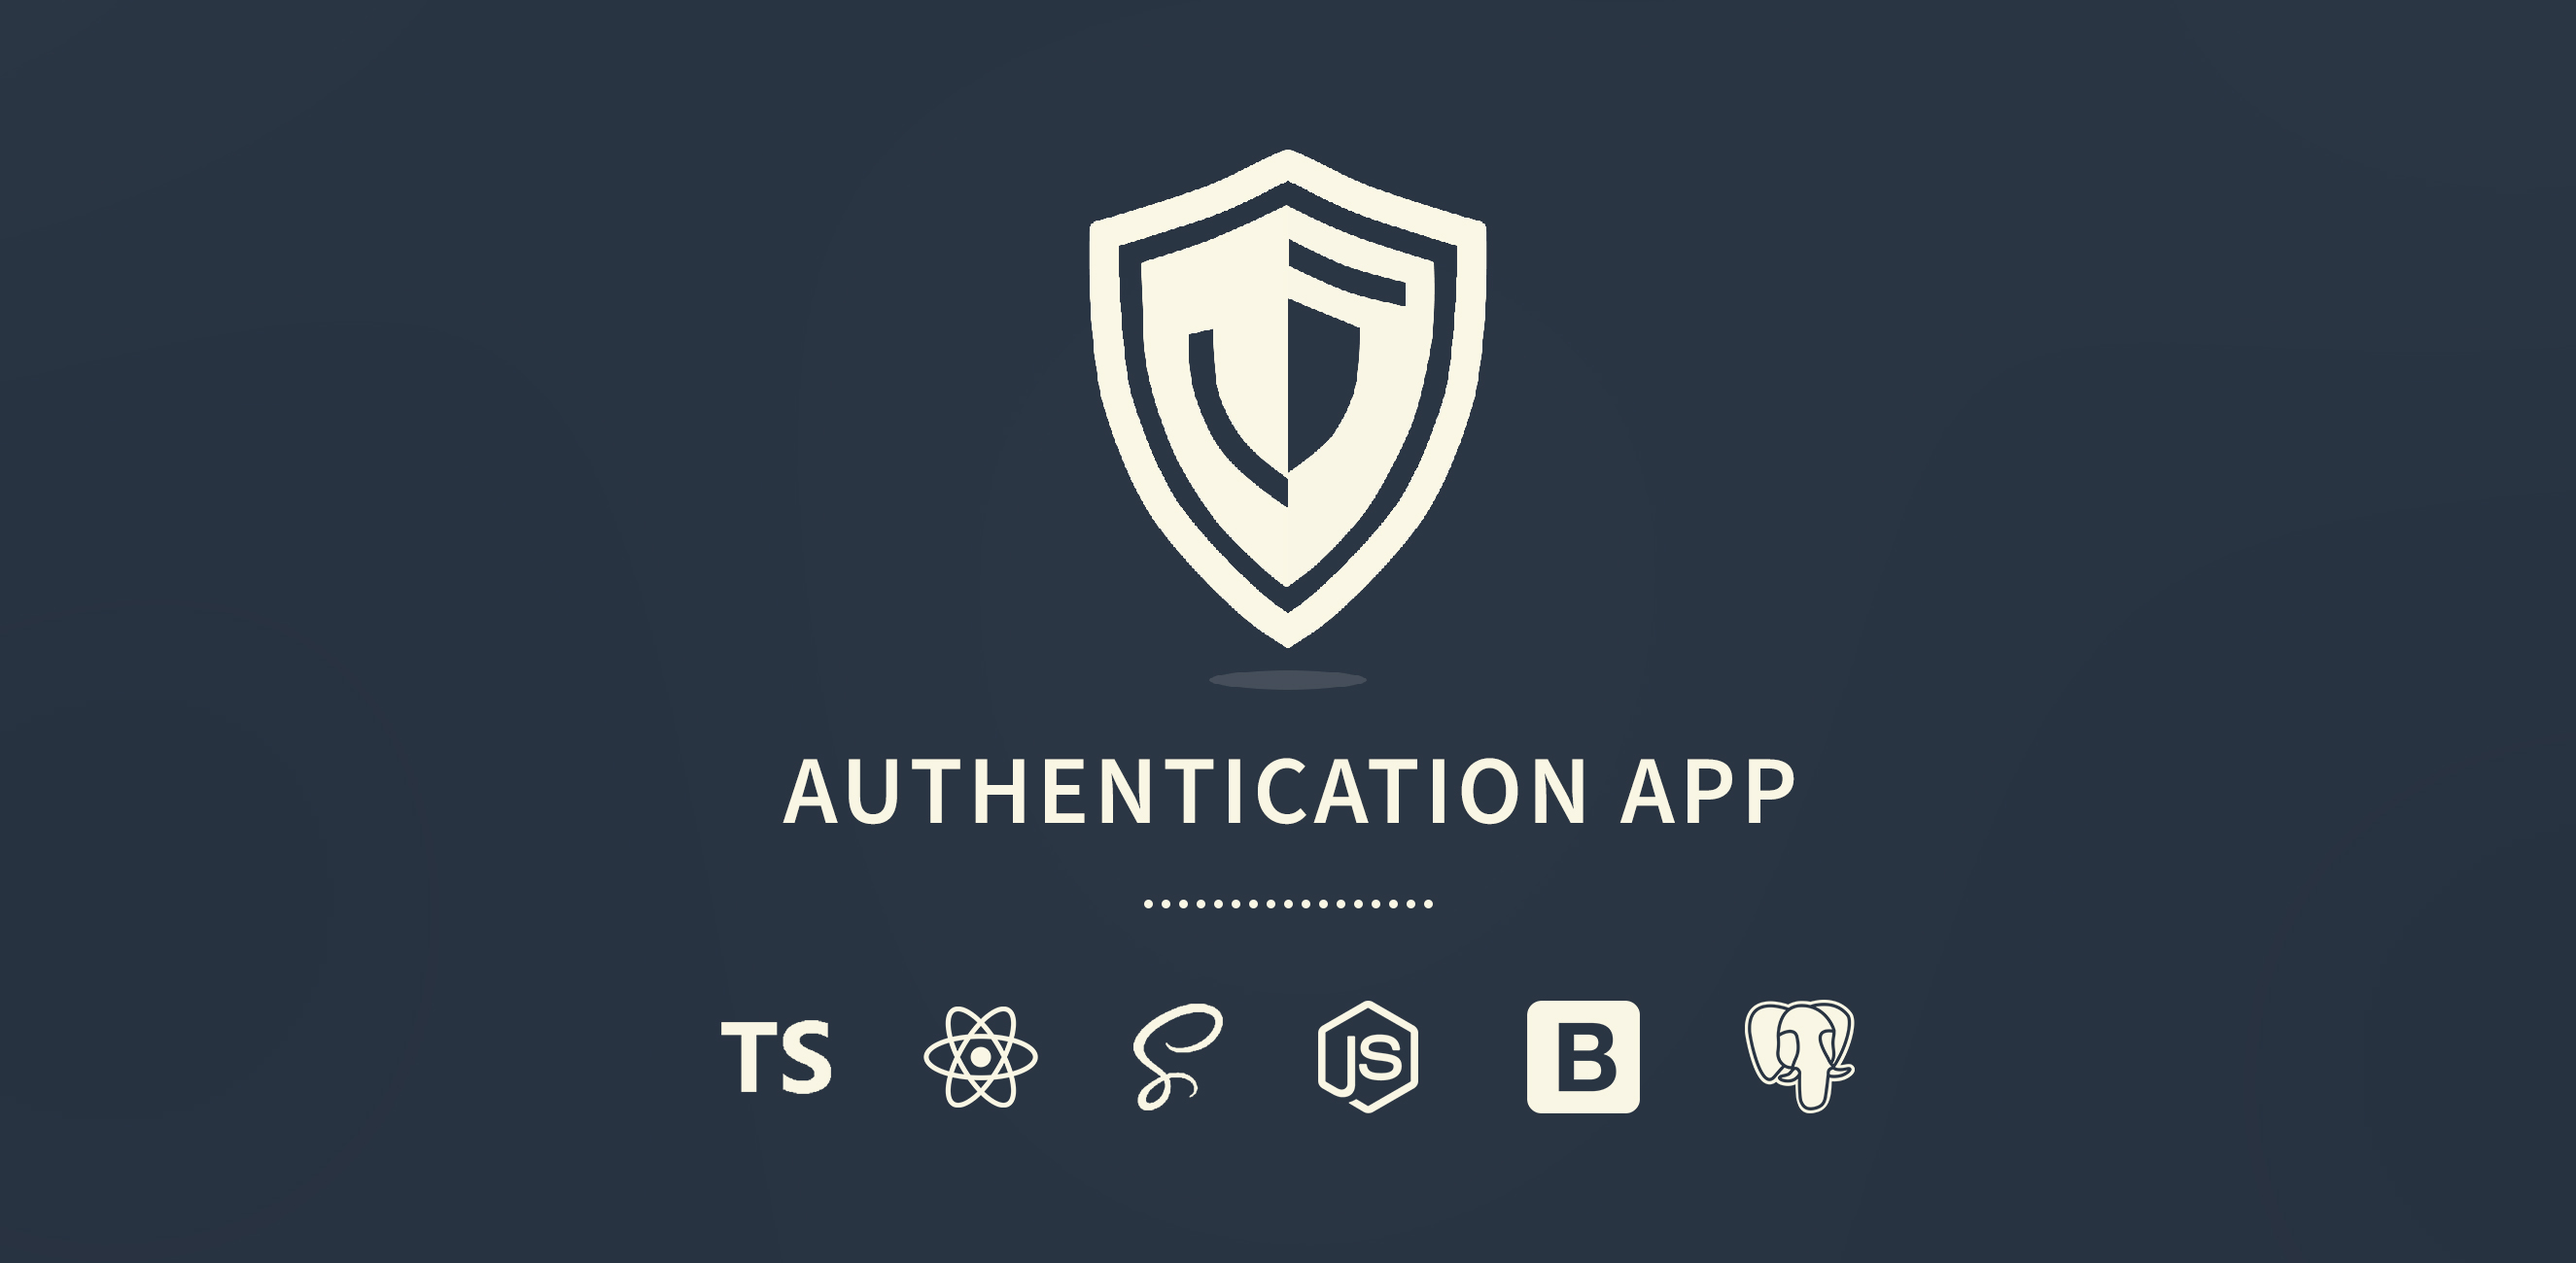
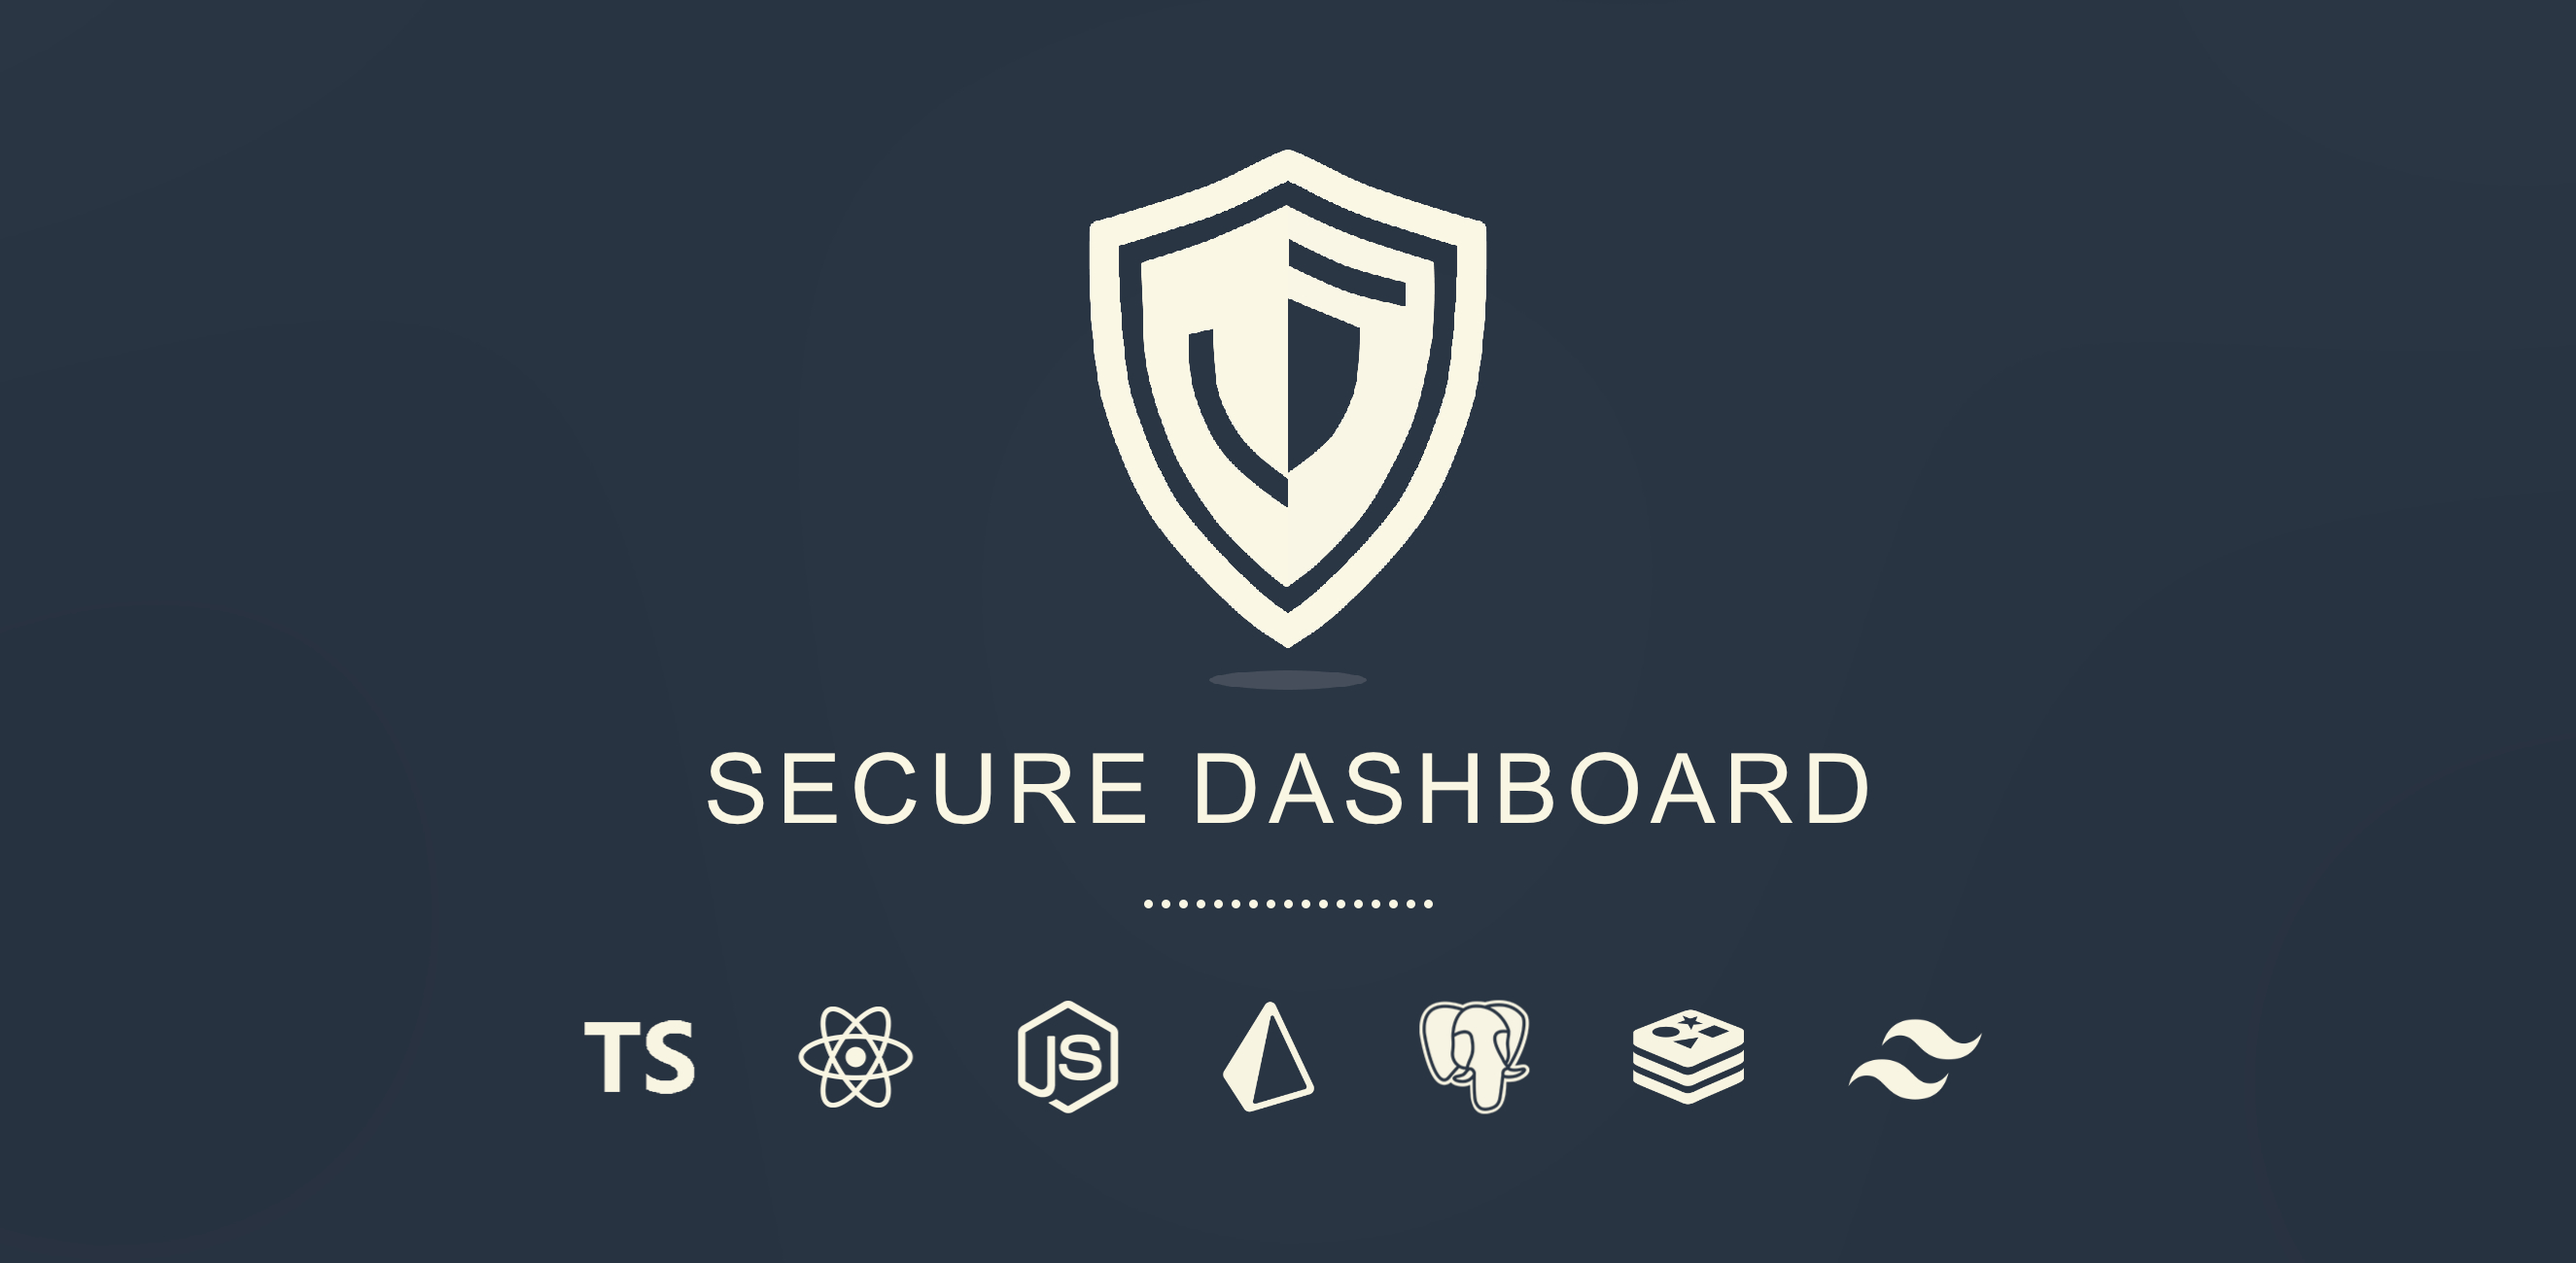
Captcha validation & Changes to README

Changed region(s): [[0.2166, 0.7692, 0.7736, 0.8923], [0.2785, 0.5846, 0.7426, 0.6769]]

diff --git a/server/src/feature/captcha/service/captcha.service.ts b/server/src/feature/captcha/service/captcha.service.ts
@@ -1,0 +1,40 @@
+import { VoidResult } from "@project/shared"
+import {
+  CaptchaFailedToValidateError,
+  CaptchaInvalidTokenError,
+} from "../error/captcha.error"
+import logger from "@base/shared/logger"
+
+const VERIFY_URL = "https://hcaptcha.com/siteverify"
+
+const captchaService = {
+  validateToken: async (
+    token: string,
+    remoteip: string,
+  ): Promise<
+    VoidResult<CaptchaInvalidTokenError | CaptchaFailedToValidateError>
+  > => {
+    try {
+      const response = await fetch(VERIFY_URL, {
+        method: "POST",
+        headers: { "Content-Type": "application/x-www-form-urlencoded" },
+        body: new URLSearchParams({
+          secret: process.env.CAPTCHA_SECRET!,
+          response: token,
+          remoteip,
+        }),
+      })
+      const result = await response.json()
+
+      if (result.success) {
+        return VoidResult.ok()
+      }
+      logger.fail("Captcha:Failed", result["error-codes"])
+      return VoidResult.error(new CaptchaInvalidTokenError())
+    } catch (error) {
+      logger.error("Captcha:Error", error)
+      return VoidResult.error(new CaptchaFailedToValidateError())
+    }
+  },
+}
+export default captchaService

diff --git a/server/src/feature/captcha/middleware/captcha.validate.middleware.ts b/server/src/feature/captcha/middleware/captcha.validate.middleware.ts
@@ -1,6 +1,8 @@
 import { Request, Response, NextFunction } from "express"
 import { asyncRoute } from "@shared/util"
 import { CaptchaInvalidTokenError } from "../error/captcha.error"
+import captchaService from "../service/captcha.service"
+import { Result } from "@project/shared"
 
 export const validateCaptchaToken = asyncRoute(
   async (req: Request, _: Response, next: NextFunction) => {
@@ -9,6 +11,12 @@ export const validateCaptchaToken = asyncRoute(
     if (token === null) {
       return next(new CaptchaInvalidTokenError())
     }
-    next()
+    const result = await captchaService.validateToken(token, req.ip as string)
+
+    Result.tap(
+      result,
+      (_) => next(),
+      (error) => next(error),
+    )
   },
 )

diff --git a/server/src/feature/captcha/error/captcha.error.ts b/server/src/feature/captcha/error/captcha.error.ts
@@ -1,4 +1,4 @@
-import { ValidationError } from "@shared/errors"
+import { UnexpectedError, ValidationError } from "@shared/errors"
 import { CaptchaErrorCodes } from "@project/shared"
 
 export class CaptchaInvalidTokenError extends ValidationError {
@@ -6,6 +6,14 @@ export class CaptchaInvalidTokenError extends ValidationError {
     super(
       "Captcha token is invalid, missing or expired.",
       CaptchaErrorCodes.CAPTCHA_INVALID_TOKEN,
+    )
+  }
+}
+export class CaptchaFailedToValidateError extends UnexpectedError {
+  constructor() {
+    super(
+      "Failed to validate captcha token.",
+      CaptchaErrorCodes.CAPTCHA_FAILED_VALIDATION,
     )
   }
 }

diff --git a/shared/src/codes/CaptchaErrorCodes.ts b/shared/src/codes/CaptchaErrorCodes.ts
@@ -1,5 +1,6 @@
 export const CaptchaErrorCodes = {
   CAPTCHA_INVALID_TOKEN: "CAPTCHA_INVALID_TOKEN",
+  CAPTCHA_FAILED_VALIDATION: "CAPTCHA_FAILED_VALIDATION",
 } as const
 
 export type CaptchaErrorCode =

diff --git a/README.md b/README.md
@@ -4,181 +4,37 @@
 ---
 
 <div align="center" width="100%">
+<h2>Secure Dashboard<h2>
 <h4>Comprehensive Web Authentication Application<h4>
 </div>
 
-## Summary
+### Summary
 
 The purpose of this project was to experiment with various authentication security methods.
 
-## Key Features
+### Key Features
 
-- Email and Password Registration and Login
-- Password Salting and Peppering
-- Google and Github OAuth Authentication
-- Two Factor Authentication
-- Sessions Management
-- Session Block System
-- Session Activity Management
-- Via Email Code Verification
-- CSRF Token
-- Database Management
-- Cords and CSP Configuration
-- Account Deletion
+- Email and password registration and login
+- Oauth authentication using Google and Github
+- Totp multi-factor authentication
+- Session block system
+- Session activity management
+- Verification code and token system
+- Csrf double-submit protection
+- Redis cache
+- Account management
+- Set/Update password
 - Localization
-- Set/Update Password
 
-## Tools Used
+### Techstack
 
 - TypeScript
 - React
-- SCSS
-- NodeJS
+- NodeJs
 - Express
-- Bootstrap
-- PostgresDB
-- _and more..._
-
-## Setup Process
-
-1. **Clone this repository**
-
-```bash
-  git clone https://github.com/Rukas90/ReactAuthApp.git
-```
-
-2. Install client packages
-
-```bash
-  cd client
-```
-
-```bash
-  npm i
-```
-
-3. Generate _CSS_ files
-
-   - Go to `client/src/Scss/main.scss`
-   - Press `Watch Sass` button located at the bottom ribbon in VS Code
-
-4. Create `.env.development` file in the `client` directory
-
-```bash
-cd client
-```
-
-```bash
-touch .env.development
-```
-
-5. Add the server url to the `.env` file
-
-```bash
-VITE_API_URL=http://localhost:3000
-```
-
-6. Create `.env` file in the `server` directory
-
-```bash
-cd server
-```
-
-```bash
-touch .env
-```
-
-7. **Setup Google OAuth Authentication**
-
-   - Go to Google Developer Console `https://console.cloud.google.com/`
-   - Create new Project (the name doesn't matter)
-   - Go to `APIs & Services > Credentials`
-   - Press `+ CREATE CREDENTIALS > OAuth client ID`
-   - Fill in the OAuth details
-     - Application type `Web Application`
-     - Write a name `can be anything`
-     - Add an authorized JavaScript origin `http://localhost:3000`
-     - Add an authorized redirect URI `http://localhost:3000/auth/google/callback`
-   - Press `Create`
-   - Add following entries to your server `.env` file. The keys can be found under `Additional information`:
-     - `GOOGLE_CLIENT_ID=[YourClientID]`
-     - `GOOGLE_CLIENT_SECRET=[YourClientSecret]`
-
-8. **Setup GitHub OAuth Authentication**
-
-   - Go to `https://github.com/settings/developers`
-   - Press `OAuth Apps > New OAuth App`
-   - Fill in the OAuth Application details
-     - Application name `can be anything`
-     - Homepage URL `http://localhost:3000`
-     - Authorization callback URL `http://localhost:3000/auth/github/callback`
-     - Enable Device Flow `true`
-   - Press `Register application`
-   - Add following entries to your server `.env` file:
-     - `GITHUB_CLIENT_ID=[YourClientID]`
-     - `GITHUB_CLIENT_SECRET=[YourClientSecret]`
-       _To get a client secret, you have to generate it_
-
-9. **Setup Database**
-
-   - Download and Install **pgAdmin 4**
-
-     ```bash
-      https://www.pgadmin.org/download/
-     ```
-
-   - Download and Install **PostgresSQL 16**
-
-     ```bash
-      https://www.enterprisedb.com/download-postgresql-binaries
-     ```
-
-   - Open **pgAdmin 4**
-   - Right click on `PostgresSQL 16 > Create > Database`
-   - Fill in the database details:
-
-     - Database (name): `can be anything`
-     - Rest leave as is ...
-       &nbsp;
-       > **Notice:** All tables will be initialized automatically when the server will start
-
-   - Add the database details to the `.env` server file:
-
-     - `CLIENT_DB_USERNAME=postgres`
-     - `CLIENT_DB_PASSWORD=[YourPassword]`
-     - `DB_TB_NAME=[YourDatabaseName]`
-     - `DB_PORT=[YourDatabasePort]`
-       `To see the port, go to pgAdmin, right click on PostgresSQL 16 > Properties ... > Connection. There you will find the port that you need to use.`
-
-10. **Email Configuration**
-    Add the database details to the `.env` server file:
-
-    - `SENDER_MAIL_SERVICE=gmail`
-    - `SENDER_EMAIL_ADDRESS=[YourGmailEmailAddress]`
-      &nbsp;
-      > **Notice:** It is recommended to create a new Google noreply email account
-    - `SENDER_EMAIL_PASSWORD=[YourAppPassword]`
-      To create an app password, follow these steps:
-      - Go to `https://myaccount.google.com/security?hl=en`
-      - Press on `2-Step Verification`
-      - Set it up, if not already
-      - When the 2-Step verification is configured, go to `App passwords` section and press on the arrow button
-      - Enter your app name
-      - Press `Create`
-      - You will then see the password that you have to put as your `SENDER_EMAIL_PASSWORD` in the env file
-
-11. **Finish .env File Setup**
-    Add additional required details to your server `.env` file:
-    - `PEPPER_KEY=[GenerateRandomKey]`
-    - `PASSPORT_SESSION_SECRET=[GenerateRandomKey]`
-    - `SERVER_PORT=3000`
-    - `TWOFA_SECRET_KEY=[GenerateRandomKey]`
-    - `CLIENT_ORIGIN=http://localhost:5174`
-      &nbsp;
-      > **Notice:** If your client uses a different port then replace the default 5174 port number with the new port number.&nbsp;
-      > The client origin in the env file must be the same as your actual client origin
-    - `SAME_SITE=Strict`
-
-> **Note:** To generate a random key you can use this online service: https://www.avast.com/random-password-generator
-
-</div>
+- Tailwind
+- PostgresSQL
+- Redis
+- Prisma
+- BullMq
+- ...
